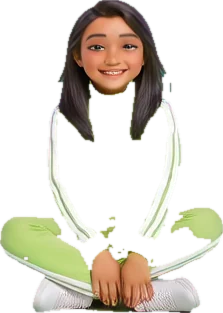
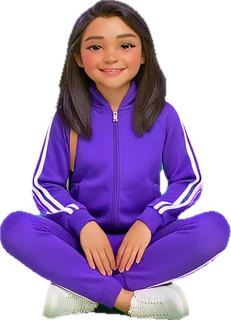
Ma Houma : gestes réalistes des 4 nouvelles tenues, tenue de sport d'Imen refaite ; Jasmin 3 : tapis volant réaliste ; docs
Claude-Session: https://claude.ai/code/session_01Lr4SkBJnq1yRYGqqaX6PKr

diff --git a/jeux/houma/corps.js b/jeux/houma/corps.js
@@ -1,2 +1,2 @@
 /* Fabriqué par docs/houma/build.py : [largeur, hauteur, centre de la tête x, haut de la tête y, largeur de la tête, cou y, main x, main y] */
-window.HOUMA_CORPS = {"anis":{"ville":[138,274,0.494,0.007,0.297,0.182,0.812,0.42],"jebba":[138,278,0.502,0.007,0.297,0.194,0.848,0.547],"foot":[137,274,0.497,0.007,0.292,0.179,0.818,0.423],"astro":[137,276,0.504,0.011,0.445,0.181,0.854,0.417],"super":[137,274,0.513,0.007,0.299,0.182,0.839,0.434],"or":[138,276,0.489,0.007,0.297,0.185,0.804,0.417],"fete":[107,320,0.491,0.003,0.458,0.197,0.991,0.472],"plage":[103,320,0.491,0.003,0.466,0.184,0.99,0.419],"pyjama":[107,320,0.488,0.003,0.439,0.181,0.981,0.416],"tablier":[103,320,0.49,0.003,0.466,0.181,0.99,0.431],"chic":[100,320,0.493,0.0,0.39,0.159,0.99,0.416],"hiver":[105,320,0.508,0.0,0.419,0.181,0.99,0.556],"sortie":[108,320,0.489,0.0,0.407,0.159,0.991,0.431],"sport":[116,320,0.489,0.0,0.397,0.159,0.991,0.478]},"imen":{"ville":[125,262,0.502,0.008,0.376,0.156,0.776,0.42],"jebba":[123,273,0.484,0.007,0.35,0.158,0.862,0.527],"foot":[124,263,0.491,0.008,0.371,0.16,0.766,0.513],"astro":[124,265,0.494,0.008,0.444,0.166,0.806,0.46],"super":[124,261,0.492,0.008,0.371,0.157,0.766,0.418],"or":[127,263,0.495,0.008,0.386,0.16,0.772,0.475],"fete":[94,320,0.514,0.006,0.617,0.203,0.979,0.484],"plage":[88,320,0.503,0.003,0.648,0.159,0.989,0.525],"pyjama":[89,320,0.505,0.003,0.629,0.159,0.989,0.475],"tablier":[89,320,0.507,0.003,0.652,0.203,0.989,0.469],"chic":[104,320,0.493,0.0,0.558,0.159,0.894,0.478],"hiver":[105,320,0.508,0.0,0.4,0.159,0.99,0.528],"sortie":[102,320,0.5,0.0,0.559,0.166,0.961,0.475],"sport":[98,320,0.498,0.0,0.633,0.172,0.99,0.425]},"essil":{"ville":[117,268,0.489,0.011,0.41,0.157,0.838,0.418],"jebba":[117,273,0.495,0.007,0.393,0.172,0.906,0.505],"foot":[117,268,0.489,0.007,0.376,0.157,0.821,0.545],"astro":[117,268,0.493,0.007,0.402,0.157,0.855,0.474],"super":[119,266,0.505,0.008,0.378,0.158,0.84,0.421],"or":[117,268,0.497,0.007,0.41,0.157,0.855,0.437],"fete":[97,320,0.486,0.003,0.536,0.159,0.99,0.512],"plage":[88,320,0.471,0.003,0.591,0.159,0.989,0.553],"pyjama":[93,320,0.475,0.003,0.559,0.159,0.989,0.509],"tablier":[94,320,0.472,0.003,0.553,0.159,0.989,0.475],"chic":[103,320,0.504,0.0,0.524,0.166,0.922,0.472],"hiver":[108,320,0.502,0.0,0.454,0.178,0.991,0.5],"sortie":[99,320,0.5,0.0,0.535,0.163,0.99,0.438],"sport":[99,320,0.478,0.0,0.525,0.159,0.99,0.447]},"salma":{"ville":[115,253,0.497,0.008,0.557,0.245,0.835,0.439],"jebba":[115,258,0.498,0.008,0.539,0.26,0.922,0.516],"foot":[114,253,0.493,0.008,0.544,0.245,0.807,0.435],"astro":[116,258,0.492,0.008,0.621,0.233,0.845,0.484],"super":[115,254,0.498,0.008,0.539,0.244,0.957,0.496],"or":[117,254,0.498,0.008,0.547,0.244,0.838,0.476],"fete":[105,320,0.5,0.003,0.781,0.241,0.99,0.522],"plage":[94,320,0.499,0.003,0.84,0.241,0.989,0.569],"pyjama":[99,320,0.502,0.003,0.788,0.247,0.99,0.525],"tablier":[101,320,0.497,0.003,0.792,0.244,0.99,0.487],"chic":[84,320,0.486,0.0,0.679,0.184,0.964,0.481],"hiver":[104,320,0.503,0.0,0.433,0.181,0.99,0.55],"sortie":[96,320,0.501,0.0,0.625,0.184,0.99,0.422],"sport":[101,320,0.496,0.0,0.752,0.222,0.99,0.472]},"amine":{"ville":[130,266,0.477,0.008,0.546,0.282,0.8,0.586],"jebba":[130,271,0.487,0.007,0.515,0.292,0.877,0.417],"foot":[130,267,0.477,0.007,0.538,0.281,0.808,0.614],"astro":[130,268,0.489,0.007,0.623,0.28,0.854,0.515],"super":[130,265,0.477,0.008,0.531,0.287,0.8,0.494],"or":[130,266,0.474,0.008,0.531,0.282,0.808,0.613],"fete":[108,320,0.469,0.003,0.759,0.259,0.991,0.519],"plage":[97,320,0.46,0.003,0.856,0.275,0.99,0.619],"pyjama":[103,320,0.464,0.003,0.816,0.269,0.99,0.569],"tablier":[96,320,0.462,0.003,0.865,0.269,0.99,0.609],"chic":[94,320,0.483,0.0,0.596,0.181,0.989,0.431],"hiver":[107,320,0.507,0.0,0.477,0.203,0.991,0.553],"sortie":[107,320,0.467,0.0,0.645,0.206,0.991,0.475],"sport":[108,320,0.462,0.0,0.787,0.259,0.991,0.509]},"nour":{"ville":[123,254,0.487,0.012,0.48,0.252,0.837,0.469],"jebba":[123,253,0.486,0.012,0.472,0.245,0.837,0.47],"foot":[123,253,0.487,0.008,0.472,0.245,0.829,0.585],"astro":[123,251,0.496,0.008,0.496,0.227,0.846,0.466],"super":[122,247,0.495,0.008,0.475,0.231,0.951,0.567],"or":[124,254,0.492,0.008,0.484,0.252,0.847,0.48],"fete":[106,320,0.48,0.003,0.689,0.244,0.991,0.472],"plage":[104,320,0.478,0.003,0.731,0.228,0.99,0.572],"pyjama":[106,320,0.474,0.003,0.698,0.244,0.991,0.478],"tablier":[106,320,0.474,0.003,0.689,0.241,0.991,0.478],"chic":[94,320,0.487,0.0,0.638,0.181,0.989,0.428],"hiver":[105,320,0.499,0.0,0.467,0.203,0.99,0.553],"sortie":[107,320,0.491,0.0,0.523,0.166,0.991,0.45],"sport":[103,320,0.494,0.0,0.641,0.197,0.99,0.516]},"yasmine":{"ville":[124,264,0.5,0.008,0.452,0.261,0.823,0.451],"jebba":[123,264,0.514,0.008,0.447,0.246,0.878,0.458],"foot":[124,255,0.5,0.008,0.444,0.212,0.798,0.424],"astro":[124,262,0.511,0.008,0.508,0.206,0.847,0.45],"super":[123,263,0.538,0.008,0.447,0.247,0.854,0.452],"or":[123,263,0.505,0.008,0.455,0.255,0.837,0.46],"fete":[103,320,0.512,0.003,0.65,0.25,0.981,0.475],"plage":[97,320,0.516,0.003,0.722,0.219,0.99,0.556],"pyjama":[99,320,0.508,0.003,0.667,0.237,0.98,0.456],"tablier":[101,320,0.507,0.003,0.653,0.237,0.99,0.475],"chic":[91,320,0.492,0.0,0.505,0.159,0.945,0.528],"hiver":[108,320,0.507,0.0,0.491,0.203,0.991,0.544],"sortie":[95,320,0.52,0.0,0.547,0.175,0.989,0.45],"sport":[101,320,0.497,0.0,0.545,0.188,0.99,0.484]},"fares":{"ville":[131,270,0.486,0.007,0.374,0.207,0.847,0.448],"jebba":[131,270,0.486,0.007,0.359,0.204,0.847,0.47],"foot":[131,270,0.492,0.007,0.359,0.207,0.832,0.578],"astro":[131,270,0.506,0.011,0.466,0.163,0.87,0.474],"super":[144,266,0.527,0.008,0.306,0.195,0.833,0.451],"or":[131,270,0.485,0.007,0.374,0.204,0.847,0.448],"fete":[107,320,0.481,0.003,0.467,0.194,0.991,0.453],"plage":[102,320,0.479,0.003,0.48,0.188,0.99,0.566],"pyjama":[106,320,0.476,0.003,0.519,0.197,0.991,0.472],"tablier":[106,320,0.474,0.003,0.528,0.194,0.991,0.475],"chic":[96,320,0.488,0.0,0.5,0.159,0.99,0.428],"hiver":[112,320,0.495,0.0,0.393,0.184,0.991,0.516],"sortie":[100,320,0.487,0.0,0.49,0.166,0.99,0.453],"sport":[111,320,0.482,0.0,0.532,0.191,0.991,0.463]}};
+window.HOUMA_CORPS = {"anis":{"ville":[138,274,0.494,0.007,0.297,0.182,0.812,0.42],"jebba":[138,278,0.502,0.007,0.297,0.194,0.848,0.547],"foot":[137,274,0.497,0.007,0.292,0.179,0.818,0.423],"astro":[137,276,0.504,0.011,0.445,0.181,0.854,0.417],"super":[137,274,0.513,0.007,0.299,0.182,0.839,0.434],"or":[138,276,0.489,0.007,0.297,0.185,0.804,0.417],"fete":[107,320,0.491,0.003,0.458,0.197,0.991,0.472],"plage":[103,320,0.491,0.003,0.466,0.184,0.99,0.419],"pyjama":[107,320,0.488,0.003,0.439,0.181,0.981,0.416],"tablier":[103,320,0.49,0.003,0.466,0.181,0.99,0.431],"chic":[100,320,0.493,0.0,0.39,0.159,0.99,0.416],"hiver":[105,320,0.508,0.0,0.419,0.181,0.99,0.556],"sortie":[108,320,0.489,0.0,0.407,0.159,0.991,0.431],"sport":[116,320,0.489,0.0,0.397,0.159,0.991,0.478]},"imen":{"ville":[125,262,0.502,0.008,0.376,0.156,0.776,0.42],"jebba":[123,273,0.484,0.007,0.35,0.158,0.862,0.527],"foot":[124,263,0.491,0.008,0.371,0.16,0.766,0.513],"astro":[124,265,0.494,0.008,0.444,0.166,0.806,0.46],"super":[124,261,0.492,0.008,0.371,0.157,0.766,0.418],"or":[127,263,0.495,0.008,0.386,0.16,0.772,0.475],"fete":[94,320,0.514,0.006,0.617,0.203,0.979,0.484],"plage":[88,320,0.503,0.003,0.648,0.159,0.989,0.525],"pyjama":[89,320,0.505,0.003,0.629,0.159,0.989,0.475],"tablier":[89,320,0.507,0.003,0.652,0.203,0.989,0.469],"chic":[104,320,0.493,0.0,0.558,0.159,0.894,0.478],"hiver":[105,320,0.508,0.0,0.4,0.159,0.99,0.528],"sortie":[102,320,0.5,0.0,0.559,0.166,0.961,0.475],"sport":[101,320,0.486,0.0,0.614,0.184,0.99,0.456]},"essil":{"ville":[117,268,0.489,0.011,0.41,0.157,0.838,0.418],"jebba":[117,273,0.495,0.007,0.393,0.172,0.906,0.505],"foot":[117,268,0.489,0.007,0.376,0.157,0.821,0.545],"astro":[117,268,0.493,0.007,0.402,0.157,0.855,0.474],"super":[119,266,0.505,0.008,0.378,0.158,0.84,0.421],"or":[117,268,0.497,0.007,0.41,0.157,0.855,0.437],"fete":[97,320,0.486,0.003,0.536,0.159,0.99,0.512],"plage":[88,320,0.471,0.003,0.591,0.159,0.989,0.553],"pyjama":[93,320,0.475,0.003,0.559,0.159,0.989,0.509],"tablier":[94,320,0.472,0.003,0.553,0.159,0.989,0.475],"chic":[103,320,0.504,0.0,0.524,0.166,0.922,0.472],"hiver":[108,320,0.502,0.0,0.454,0.178,0.991,0.5],"sortie":[99,320,0.5,0.0,0.535,0.163,0.99,0.438],"sport":[99,320,0.478,0.0,0.525,0.159,0.99,0.447]},"salma":{"ville":[115,253,0.497,0.008,0.557,0.245,0.835,0.439],"jebba":[115,258,0.498,0.008,0.539,0.26,0.922,0.516],"foot":[114,253,0.493,0.008,0.544,0.245,0.807,0.435],"astro":[116,258,0.492,0.008,0.621,0.233,0.845,0.484],"super":[115,254,0.498,0.008,0.539,0.244,0.957,0.496],"or":[117,254,0.498,0.008,0.547,0.244,0.838,0.476],"fete":[105,320,0.5,0.003,0.781,0.241,0.99,0.522],"plage":[94,320,0.499,0.003,0.84,0.241,0.989,0.569],"pyjama":[99,320,0.502,0.003,0.788,0.247,0.99,0.525],"tablier":[101,320,0.497,0.003,0.792,0.244,0.99,0.487],"chic":[84,320,0.486,0.0,0.679,0.184,0.964,0.481],"hiver":[104,320,0.503,0.0,0.433,0.181,0.99,0.55],"sortie":[96,320,0.501,0.0,0.625,0.184,0.99,0.422],"sport":[101,320,0.496,0.0,0.752,0.222,0.99,0.472]},"amine":{"ville":[130,266,0.477,0.008,0.546,0.282,0.8,0.586],"jebba":[130,271,0.487,0.007,0.515,0.292,0.877,0.417],"foot":[130,267,0.477,0.007,0.538,0.281,0.808,0.614],"astro":[130,268,0.489,0.007,0.623,0.28,0.854,0.515],"super":[130,265,0.477,0.008,0.531,0.287,0.8,0.494],"or":[130,266,0.474,0.008,0.531,0.282,0.808,0.613],"fete":[108,320,0.469,0.003,0.759,0.259,0.991,0.519],"plage":[97,320,0.46,0.003,0.856,0.275,0.99,0.619],"pyjama":[103,320,0.464,0.003,0.816,0.269,0.99,0.569],"tablier":[96,320,0.462,0.003,0.865,0.269,0.99,0.609],"chic":[94,320,0.483,0.0,0.596,0.181,0.989,0.431],"hiver":[107,320,0.507,0.0,0.477,0.203,0.991,0.553],"sortie":[107,320,0.467,0.0,0.645,0.206,0.991,0.475],"sport":[108,320,0.462,0.0,0.787,0.259,0.991,0.509]},"nour":{"ville":[123,254,0.487,0.012,0.48,0.252,0.837,0.469],"jebba":[123,253,0.486,0.012,0.472,0.245,0.837,0.47],"foot":[123,253,0.487,0.008,0.472,0.245,0.829,0.585],"astro":[123,251,0.496,0.008,0.496,0.227,0.846,0.466],"super":[122,247,0.495,0.008,0.475,0.231,0.951,0.567],"or":[124,254,0.492,0.008,0.484,0.252,0.847,0.48],"fete":[106,320,0.48,0.003,0.689,0.244,0.991,0.472],"plage":[104,320,0.478,0.003,0.731,0.228,0.99,0.572],"pyjama":[106,320,0.474,0.003,0.698,0.244,0.991,0.478],"tablier":[106,320,0.474,0.003,0.689,0.241,0.991,0.478],"chic":[94,320,0.487,0.0,0.638,0.181,0.989,0.428],"hiver":[105,320,0.499,0.0,0.467,0.203,0.99,0.553],"sortie":[107,320,0.491,0.0,0.523,0.166,0.991,0.45],"sport":[103,320,0.494,0.0,0.641,0.197,0.99,0.516]},"yasmine":{"ville":[124,264,0.5,0.008,0.452,0.261,0.823,0.451],"jebba":[123,264,0.514,0.008,0.447,0.246,0.878,0.458],"foot":[124,255,0.5,0.008,0.444,0.212,0.798,0.424],"astro":[124,262,0.511,0.008,0.508,0.206,0.847,0.45],"super":[123,263,0.538,0.008,0.447,0.247,0.854,0.452],"or":[123,263,0.505,0.008,0.455,0.255,0.837,0.46],"fete":[103,320,0.512,0.003,0.65,0.25,0.981,0.475],"plage":[97,320,0.516,0.003,0.722,0.219,0.99,0.556],"pyjama":[99,320,0.508,0.003,0.667,0.237,0.98,0.456],"tablier":[101,320,0.507,0.003,0.653,0.237,0.99,0.475],"chic":[91,320,0.492,0.0,0.505,0.159,0.945,0.528],"hiver":[108,320,0.507,0.0,0.491,0.203,0.991,0.544],"sortie":[95,320,0.52,0.0,0.547,0.175,0.989,0.45],"sport":[101,320,0.497,0.0,0.545,0.188,0.99,0.484]},"fares":{"ville":[131,270,0.486,0.007,0.374,0.207,0.847,0.448],"jebba":[131,270,0.486,0.007,0.359,0.204,0.847,0.47],"foot":[131,270,0.492,0.007,0.359,0.207,0.832,0.578],"astro":[131,270,0.506,0.011,0.466,0.163,0.87,0.474],"super":[144,266,0.527,0.008,0.306,0.195,0.833,0.451],"or":[131,270,0.485,0.007,0.374,0.204,0.847,0.448],"fete":[107,320,0.481,0.003,0.467,0.194,0.991,0.453],"plage":[102,320,0.479,0.003,0.48,0.188,0.99,0.566],"pyjama":[106,320,0.476,0.003,0.519,0.197,0.991,0.472],"tablier":[106,320,0.474,0.003,0.528,0.194,0.991,0.475],"chic":[96,320,0.488,0.0,0.5,0.159,0.99,0.428],"hiver":[112,320,0.495,0.0,0.393,0.184,0.991,0.516],"sortie":[100,320,0.487,0.0,0.49,0.166,0.99,0.453],"sport":[111,320,0.482,0.0,0.532,0.191,0.991,0.463]}};

diff --git a/jeux/houma/assis.js b/jeux/houma/assis.js
@@ -1,2 +1,2 @@
 /* Fabriqué par docs/houma/build_assis.py : [largeur, hauteur, hauteur par rapport au personnage debout, tête x, tête largeur, cou y] */
-window.HOUMA_ASSIS = {"amine":{"fete":[259,412,0.736,0.48,0.56,0.345],"plage":[232,400,0.714,0.482,0.651,0.388],"pyjama":[222,414,0.739,0.484,0.667,0.362],"tablier":[208,408,0.729,0.478,0.726,0.375],"ville":[221,406,0.725,0.486,0.679,0.387],"astro":[238,413,0.738,0.492,0.735,0.409],"foot":[224,402,0.718,0.486,0.696,0.398],"jebba":[208,410,0.732,0.508,0.654,0.376],"or":[220,411,0.734,0.482,0.686,0.375],"super":[216,408,0.729,0.489,0.718,0.392],"chic":[274,443,0.791,0.508,0.445,0.284],"hiver":[273,443,0.791,0.453,0.392,0.309],"sortie":[247,356,0.636,0.442,0.466,0.312],"sport":[250,392,0.7,0.484,0.564,0.362]},"anis":{"fete":[250,346,0.618,0.489,0.348,0.309],"plage":[237,325,0.58,0.479,0.338,0.289],"pyjama":[232,334,0.596,0.488,0.358,0.278],"tablier":[221,342,0.611,0.475,0.367,0.278],"ville":[220,321,0.573,0.462,0.35,0.28],"astro":[236,335,0.598,0.511,0.504,0.275],"foot":[238,316,0.564,0.496,0.324,0.288],"jebba":[224,332,0.593,0.476,0.348,0.295],"or":[230,322,0.575,0.481,0.357,0.283],"super":[237,329,0.588,0.5,0.338,0.286],"chic":[253,354,0.632,0.494,0.3,0.209],"hiver":[255,436,0.779,0.514,0.353,0.278],"sortie":[215,360,0.643,0.497,0.358,0.222],"sport":[244,336,0.6,0.474,0.311,0.238]},"essil":{"fete":[256,360,0.643,0.435,0.348,0.2],"plage":[230,341,0.609,0.485,0.4,0.223],"pyjama":[232,351,0.627,0.455,0.409,0.219],"tablier":[199,333,0.595,0.462,0.452,0.225],"ville":[201,313,0.559,0.497,0.443,0.23],"astro":[227,327,0.584,0.496,0.427,0.223],"foot":[210,337,0.602,0.463,0.424,0.228],"jebba":[223,342,0.611,0.504,0.399,0.266],"or":[220,355,0.634,0.462,0.427,0.2],"super":[209,329,0.588,0.477,0.44,0.246],"chic":[240,395,0.705,0.497,0.338,0.2],"hiver":[179,427,0.762,0.418,0.536,0.272],"sortie":[248,441,0.787,0.549,0.387,0.2],"sport":[235,337,0.602,0.474,0.379,0.214]},"fares":{"fete":[235,338,0.604,0.487,0.383,0.325],"plage":[229,331,0.591,0.475,0.362,0.302],"pyjama":[230,331,0.591,0.513,0.426,0.311],"tablier":[226,354,0.632,0.482,0.42,0.305],"ville":[237,336,0.6,0.481,0.418,0.318],"astro":[220,360,0.643,0.507,0.568,0.225],"foot":[239,328,0.586,0.481,0.397,0.314],"jebba":[240,335,0.598,0.499,0.396,0.313],"or":[252,335,0.598,0.476,0.405,0.331],"super":[223,335,0.598,0.514,0.404,0.304],"chic":[270,404,0.721,0.514,0.344,0.243],"hiver":[253,388,0.693,0.458,0.32,0.276],"sortie":[276,372,0.664,0.515,0.359,0.296],"sport":[275,340,0.607,0.483,0.356,0.303]},"imen":{"fete":[255,329,0.588,0.466,0.349,0.198],"plage":[225,311,0.555,0.502,0.449,0.199],"pyjama":[243,318,0.568,0.496,0.391,0.198],"tablier":[216,316,0.564,0.481,0.417,0.199],"ville":[230,310,0.554,0.495,0.4,0.2],"astro":[241,329,0.588,0.499,0.494,0.277],"foot":[226,304,0.543,0.511,0.385,0.197],"jebba":[224,321,0.573,0.505,0.357,0.199],"or":[232,316,0.564,0.51,0.418,0.199],"super":[236,309,0.552,0.503,0.373,0.197],"chic":[219,368,0.657,0.52,0.461,0.231],"hiver":[237,401,0.716,0.516,0.329,0.222],"sortie":[226,348,0.621,0.47,0.407,0.198],"sport":[223,313,0.559,0.498,0.426,0.198]},"nour":{"fete":[252,360,0.643,0.478,0.532,0.375],"plage":[229,364,0.65,0.488,0.59,0.354],"pyjama":[230,358,0.639,0.514,0.557,0.374],"tablier":[203,368,0.657,0.474,0.611,0.351],"ville":[240,368,0.657,0.494,0.525,0.364],"astro":[243,361,0.645,0.495,0.556,0.371],"foot":[240,372,0.664,0.502,0.575,0.382],"jebba":[245,364,0.65,0.496,0.535,0.365],"or":[254,352,0.629,0.519,0.543,0.398],"super":[262,366,0.654,0.501,0.515,0.352],"chic":[316,424,0.757,0.49,0.411,0.297],"hiver":[232,455,0.812,0.485,0.444,0.308],"sortie":[283,357,0.637,0.493,0.36,0.266],"sport":[286,411,0.734,0.522,0.483,0.307]},"salma":{"fete":[226,377,0.673,0.518,0.659,0.337],"plage":[202,330,0.589,0.477,0.673,0.376],"pyjama":[218,357,0.637,0.5,0.665,0.364],"tablier":[207,345,0.616,0.453,0.667,0.357],"ville":[190,342,0.611,0.456,0.689,0.357],"astro":[215,358,0.639,0.491,0.73,0.349],"foot":[190,327,0.584,0.522,0.726,0.388],"jebba":[221,359,0.641,0.495,0.575,0.362],"or":[227,345,0.616,0.48,0.674,0.394],"super":[230,360,0.643,0.528,0.635,0.372],"chic":[204,549,0.98,0.512,0.711,0.23],"hiver":[266,398,0.711,0.479,0.335,0.271],"sortie":[248,459,0.82,0.53,0.617,0.255],"sport":[247,371,0.662,0.499,0.607,0.356]},"yasmine":{"fete":[233,362,0.646,0.481,0.502,0.343],"plage":[230,332,0.593,0.5,0.526,0.322],"pyjama":[228,341,0.609,0.513,0.513,0.408],"tablier":[207,370,0.661,0.493,0.546,0.362],"ville":[239,351,0.627,0.511,0.494,0.373],"astro":[230,366,0.654,0.542,0.591,0.276],"foot":[229,349,0.623,0.525,0.52,0.355],"jebba":[226,356,0.636,0.521,0.504,0.365],"or":[223,363,0.648,0.505,0.534,0.383],"super":[247,349,0.623,0.524,0.482,0.384],"chic":[189,501,0.895,0.524,0.534,0.21],"hiver":[224,472,0.843,0.466,0.478,0.297],"sortie":[236,499,0.891,0.555,0.487,0.251],"sport":[302,432,0.771,0.489,0.391,0.278]}};
+window.HOUMA_ASSIS = {"amine":{"fete":[259,412,0.736,0.48,0.56,0.345],"plage":[232,400,0.714,0.482,0.651,0.388],"pyjama":[222,414,0.739,0.484,0.667,0.362],"tablier":[208,408,0.729,0.478,0.726,0.375],"ville":[221,406,0.725,0.486,0.679,0.387],"astro":[238,413,0.738,0.492,0.735,0.409],"foot":[224,402,0.718,0.486,0.696,0.398],"jebba":[208,410,0.732,0.508,0.654,0.376],"or":[220,411,0.734,0.482,0.686,0.375],"super":[216,408,0.729,0.489,0.718,0.392],"chic":[274,443,0.791,0.508,0.445,0.284],"hiver":[273,443,0.791,0.453,0.392,0.309],"sortie":[247,356,0.636,0.442,0.466,0.312],"sport":[250,392,0.7,0.484,0.564,0.362]},"anis":{"fete":[250,346,0.618,0.489,0.348,0.309],"plage":[237,325,0.58,0.479,0.338,0.289],"pyjama":[232,334,0.596,0.488,0.358,0.278],"tablier":[221,342,0.611,0.475,0.367,0.278],"ville":[220,321,0.573,0.462,0.35,0.28],"astro":[236,335,0.598,0.511,0.504,0.275],"foot":[238,316,0.564,0.496,0.324,0.288],"jebba":[224,332,0.593,0.476,0.348,0.295],"or":[230,322,0.575,0.481,0.357,0.283],"super":[237,329,0.588,0.5,0.338,0.286],"chic":[253,354,0.632,0.494,0.3,0.209],"hiver":[255,436,0.779,0.514,0.353,0.278],"sortie":[215,360,0.643,0.497,0.358,0.222],"sport":[244,336,0.6,0.474,0.311,0.238]},"essil":{"fete":[256,360,0.643,0.435,0.348,0.2],"plage":[230,341,0.609,0.485,0.4,0.223],"pyjama":[232,351,0.627,0.455,0.409,0.219],"tablier":[199,333,0.595,0.462,0.452,0.225],"ville":[201,313,0.559,0.497,0.443,0.23],"astro":[227,327,0.584,0.496,0.427,0.223],"foot":[210,337,0.602,0.463,0.424,0.228],"jebba":[223,342,0.611,0.504,0.399,0.266],"or":[220,355,0.634,0.462,0.427,0.2],"super":[209,329,0.588,0.477,0.44,0.246],"chic":[240,395,0.705,0.497,0.338,0.2],"hiver":[179,427,0.762,0.418,0.536,0.272],"sortie":[248,441,0.787,0.549,0.387,0.2],"sport":[235,337,0.602,0.474,0.379,0.214]},"fares":{"fete":[235,338,0.604,0.487,0.383,0.325],"plage":[229,331,0.591,0.475,0.362,0.302],"pyjama":[230,331,0.591,0.513,0.426,0.311],"tablier":[226,354,0.632,0.482,0.42,0.305],"ville":[237,336,0.6,0.481,0.418,0.318],"astro":[220,360,0.643,0.507,0.568,0.225],"foot":[239,328,0.586,0.481,0.397,0.314],"jebba":[240,335,0.598,0.499,0.396,0.313],"or":[252,335,0.598,0.476,0.405,0.331],"super":[223,335,0.598,0.514,0.404,0.304],"chic":[270,404,0.721,0.514,0.344,0.243],"hiver":[253,388,0.693,0.458,0.32,0.276],"sortie":[276,372,0.664,0.515,0.359,0.296],"sport":[275,340,0.607,0.483,0.356,0.303]},"imen":{"fete":[255,329,0.588,0.466,0.349,0.198],"plage":[225,311,0.555,0.502,0.449,0.199],"pyjama":[243,318,0.568,0.496,0.391,0.198],"tablier":[216,316,0.564,0.481,0.417,0.199],"ville":[230,310,0.554,0.495,0.4,0.2],"astro":[241,329,0.588,0.499,0.494,0.277],"foot":[226,304,0.543,0.511,0.385,0.197],"jebba":[224,321,0.573,0.505,0.357,0.199],"or":[232,316,0.564,0.51,0.418,0.199],"super":[236,309,0.552,0.503,0.373,0.197],"chic":[219,368,0.657,0.52,0.461,0.231],"hiver":[237,401,0.716,0.516,0.329,0.222],"sortie":[226,348,0.621,0.47,0.407,0.198],"sport":[231,320,0.571,0.478,0.407,0.2]},"nour":{"fete":[252,360,0.643,0.478,0.532,0.375],"plage":[229,364,0.65,0.488,0.59,0.354],"pyjama":[230,358,0.639,0.514,0.557,0.374],"tablier":[203,368,0.657,0.474,0.611,0.351],"ville":[240,368,0.657,0.494,0.525,0.364],"astro":[243,361,0.645,0.495,0.556,0.371],"foot":[240,372,0.664,0.502,0.575,0.382],"jebba":[245,364,0.65,0.496,0.535,0.365],"or":[254,352,0.629,0.519,0.543,0.398],"super":[262,366,0.654,0.501,0.515,0.352],"chic":[316,424,0.757,0.49,0.411,0.297],"hiver":[232,455,0.812,0.485,0.444,0.308],"sortie":[283,357,0.637,0.493,0.36,0.266],"sport":[286,411,0.734,0.522,0.483,0.307]},"salma":{"fete":[226,377,0.673,0.518,0.659,0.337],"plage":[202,330,0.589,0.477,0.673,0.376],"pyjama":[218,357,0.637,0.5,0.665,0.364],"tablier":[207,345,0.616,0.453,0.667,0.357],"ville":[190,342,0.611,0.456,0.689,0.357],"astro":[215,358,0.639,0.491,0.73,0.349],"foot":[190,327,0.584,0.522,0.726,0.388],"jebba":[221,359,0.641,0.495,0.575,0.362],"or":[227,345,0.616,0.48,0.674,0.394],"super":[230,360,0.643,0.528,0.635,0.372],"chic":[204,549,0.98,0.512,0.711,0.23],"hiver":[266,398,0.711,0.479,0.335,0.271],"sortie":[248,459,0.82,0.53,0.617,0.255],"sport":[247,371,0.662,0.499,0.607,0.356]},"yasmine":{"fete":[233,362,0.646,0.481,0.502,0.343],"plage":[230,332,0.593,0.5,0.526,0.322],"pyjama":[228,341,0.609,0.513,0.513,0.408],"tablier":[207,370,0.661,0.493,0.546,0.362],"ville":[239,351,0.627,0.511,0.494,0.373],"astro":[230,366,0.654,0.542,0.591,0.276],"foot":[229,349,0.623,0.525,0.52,0.355],"jebba":[226,356,0.636,0.521,0.504,0.365],"or":[223,363,0.648,0.505,0.534,0.383],"super":[247,349,0.623,0.524,0.482,0.384],"chic":[189,501,0.895,0.524,0.534,0.21],"hiver":[224,472,0.843,0.466,0.478,0.297],"sortie":[236,499,0.891,0.555,0.487,0.251],"sport":[302,432,0.771,0.489,0.391,0.278]}};

diff --git a/jeux/houma/gestes.js b/jeux/houma/gestes.js
@@ -1,2 +1,2 @@
 // fabriqué par docs/houma/build_gestes.py
-window.HOUMA_GESTES = {"amine":{"ville":[210,330,0.484,1.125,0.995],"jebba":[198,330,0.482,1.186,0.985],"pyjama":[201,330,0.487,1.095,0.989],"astro":[203,330,0.488,1.172,0.997],"fete":[212,330,0.495,1.047,0.993],"foot":[194,330,0.473,1.202,0.968],"or":[198,330,0.483,1.205,0.971],"plage":[210,330,0.495,1.06,0.99],"super":[199,330,0.482,1.172,0.983],"tablier":[207,330,0.49,1.077,0.988]},"anis":{"ville":[188,330,0.479,1.206,0.981],"jebba":[196,330,0.472,1.198,0.985],"pyjama":[186,330,0.474,1.194,0.986],"astro":[190,330,0.478,1.206,0.982],"fete":[184,330,0.459,1.156,0.986],"foot":[189,330,0.478,1.216,0.977],"or":[191,330,0.48,1.204,0.982],"plage":[180,330,0.455,1.187,0.99],"super":[190,330,0.52,1.218,0.976],"tablier":[184,330,0.454,1.185,0.987]},"essil":{"ville":[186,330,0.496,1.207,0.98],"jebba":[183,330,0.46,1.208,0.979],"pyjama":[166,330,0.506,1.189,0.985],"astro":[190,330,0.494,1.2,0.984],"fete":[171,330,0.475,1.208,0.983],"foot":[161,330,0.512,1.215,0.981],"or":[189,330,0.493,1.208,0.982],"plage":[161,330,0.507,1.206,0.982],"super":[186,330,0.539,1.214,0.977],"tablier":[183,330,0.468,1.182,0.986]},"fares":{"ville":[195,330,0.485,1.194,0.987],"jebba":[190,330,0.467,1.19,0.987],"pyjama":[183,330,0.458,1.184,0.986],"astro":[190,330,0.484,1.21,0.976],"fete":[189,330,0.46,1.174,0.991],"foot":[178,330,0.468,1.208,0.977],"or":[195,330,0.495,1.201,0.983],"plage":[177,330,0.461,1.185,0.989],"super":[188,330,0.535,1.211,0.977],"tablier":[190,330,0.456,1.179,0.989]},"imen":{"ville":[172,330,0.516,1.215,0.983],"jebba":[184,330,0.461,1.204,0.985],"pyjama":[172,330,0.504,1.206,0.981],"astro":[188,330,0.488,1.203,0.985],"fete":[170,330,0.478,1.211,0.981],"foot":[172,330,0.52,1.226,0.976],"or":[171,330,0.513,1.223,0.98],"plage":[164,330,0.483,1.217,0.978],"super":[173,330,0.515,1.219,0.977],"tablier":[175,330,0.461,1.203,0.986]},"nour":{"ville":[195,330,0.469,1.183,0.991],"jebba":[188,330,0.464,1.198,0.984],"pyjama":[201,330,0.478,1.154,0.988],"astro":[191,330,0.465,1.199,0.98],"fete":[203,330,0.49,1.09,0.987],"foot":[184,330,0.471,1.199,0.973],"or":[199,330,0.487,1.207,0.976],"plage":[204,330,0.476,1.125,0.987],"super":[189,330,0.465,1.198,0.984],"tablier":[205,330,0.481,1.086,0.99]},"salma":{"ville":[189,330,0.482,1.219,0.965],"jebba":[192,330,0.463,1.191,0.995],"pyjama":[189,330,0.456,1.167,0.993],"astro":[193,330,0.47,1.207,0.973],"fete":[197,330,0.469,1.173,0.987],"foot":[183,330,0.464,1.199,0.981],"or":[197,330,0.482,1.208,0.974],"plage":[196,330,0.461,1.157,0.974],"super":[188,330,0.471,1.22,0.963],"tablier":[200,330,0.458,1.147,0.993]},"yasmine":{"ville":[187,330,0.453,1.188,0.987],"jebba":[191,330,0.47,1.196,0.987],"pyjama":[195,330,0.463,1.154,0.989],"astro":[194,330,0.471,1.194,0.984],"fete":[197,330,0.479,1.146,0.984],"foot":[178,330,0.46,1.205,0.98],"or":[198,330,0.475,1.199,0.985],"plage":[185,330,0.498,1.182,0.989],"super":[186,330,0.488,1.2,0.983],"tablier":[196,330,0.475,1.123,0.985]}};
+window.HOUMA_GESTES = {"amine":{"ville":[210,330,0.484,1.125,0.995],"jebba":[198,330,0.482,1.186,0.985],"pyjama":[201,330,0.487,1.095,0.989],"astro":[203,330,0.488,1.172,0.997],"fete":[212,330,0.495,1.047,0.993],"foot":[194,330,0.473,1.202,0.968],"or":[198,330,0.483,1.205,0.971],"plage":[210,330,0.495,1.06,0.99],"super":[199,330,0.482,1.172,0.983],"tablier":[207,330,0.49,1.077,0.988],"chic":[179,330,0.476,1.002,0.999],"hiver":[176,330,0.489,1.001,0.998],"sortie":[189,330,0.489,1.112,0.999],"sport":[195,330,0.48,1.11,0.999]},"anis":{"ville":[188,330,0.479,1.206,0.981],"jebba":[196,330,0.472,1.198,0.985],"pyjama":[186,330,0.474,1.194,0.986],"astro":[190,330,0.478,1.206,0.982],"fete":[184,330,0.459,1.156,0.986],"foot":[189,330,0.478,1.216,0.977],"or":[191,330,0.48,1.204,0.982],"plage":[180,330,0.455,1.187,0.99],"super":[190,330,0.52,1.218,0.976],"tablier":[184,330,0.454,1.185,0.987],"chic":[176,330,0.472,1.164,0.965],"hiver":[176,330,0.473,1.089,0.962],"sortie":[179,330,0.473,1.172,0.961],"sport":[151,330,0.465,1.062,0.942]},"essil":{"ville":[186,330,0.496,1.207,0.98],"jebba":[183,330,0.46,1.208,0.979],"pyjama":[166,330,0.506,1.189,0.985],"astro":[190,330,0.494,1.2,0.984],"fete":[171,330,0.475,1.208,0.983],"foot":[161,330,0.512,1.215,0.981],"or":[189,330,0.493,1.208,0.982],"plage":[161,330,0.507,1.206,0.982],"super":[186,330,0.539,1.214,0.977],"tablier":[183,330,0.468,1.182,0.986],"chic":[179,330,0.48,1.15,0.983],"hiver":[184,330,0.494,1.098,0.97],"sortie":[167,330,0.475,1.082,0.997],"sport":[178,330,0.485,1.212,0.948]},"fares":{"ville":[195,330,0.485,1.194,0.987],"jebba":[190,330,0.467,1.19,0.987],"pyjama":[183,330,0.458,1.184,0.986],"astro":[190,330,0.484,1.21,0.976],"fete":[189,330,0.46,1.174,0.991],"foot":[178,330,0.468,1.208,0.977],"or":[195,330,0.495,1.201,0.983],"plage":[177,330,0.461,1.185,0.989],"super":[188,330,0.535,1.211,0.977],"tablier":[190,330,0.456,1.179,0.989],"chic":[179,330,0.48,1.103,0.988],"hiver":[191,330,0.49,1.092,0.999],"sortie":[180,330,0.477,1.054,0.996],"sport":[192,330,0.487,1.132,0.997]},"imen":{"ville":[172,330,0.516,1.215,0.983],"jebba":[184,330,0.461,1.204,0.985],"pyjama":[172,330,0.504,1.206,0.981],"astro":[188,330,0.488,1.203,0.985],"fete":[170,330,0.478,1.211,0.981],"foot":[172,330,0.52,1.226,0.976],"or":[171,330,0.513,1.223,0.98],"plage":[164,330,0.483,1.217,0.978],"super":[173,330,0.515,1.219,0.977],"tablier":[175,330,0.461,1.203,0.986],"chic":[176,330,0.464,1.182,0.966],"hiver":[189,330,0.483,1.068,0.996],"sortie":[176,330,0.474,1.186,0.955],"sport":[178,330,0.479,1.205,0.956]},"nour":{"ville":[195,330,0.469,1.183,0.991],"jebba":[188,330,0.464,1.198,0.984],"pyjama":[201,330,0.478,1.154,0.988],"astro":[191,330,0.465,1.199,0.98],"fete":[203,330,0.49,1.09,0.987],"foot":[184,330,0.471,1.199,0.973],"or":[199,330,0.487,1.207,0.976],"plage":[204,330,0.476,1.125,0.987],"super":[189,330,0.465,1.198,0.984],"tablier":[205,330,0.481,1.086,0.99],"chic":[173,330,0.466,1.018,1.0],"hiver":[180,330,0.487,1.006,0.998],"sortie":[179,330,0.481,1.118,0.997],"sport":[173,330,0.47,1.028,1.0]},"salma":{"ville":[189,330,0.482,1.219,0.965],"jebba":[192,330,0.463,1.191,0.995],"pyjama":[189,330,0.456,1.167,0.993],"astro":[193,330,0.47,1.207,0.973],"fete":[197,330,0.469,1.173,0.987],"foot":[183,330,0.464,1.199,0.981],"or":[197,330,0.482,1.208,0.974],"plage":[196,330,0.461,1.157,0.974],"super":[188,330,0.471,1.22,0.963],"tablier":[200,330,0.458,1.147,0.993],"chic":[167,330,0.483,1.025,0.999],"hiver":[178,330,0.488,1.054,0.978],"sortie":[170,330,0.479,1.038,0.998],"sport":[190,330,0.477,1.06,0.998]},"yasmine":{"ville":[187,330,0.453,1.188,0.987],"jebba":[191,330,0.47,1.196,0.987],"pyjama":[195,330,0.463,1.154,0.989],"astro":[194,330,0.471,1.194,0.984],"fete":[197,330,0.479,1.146,0.984],"foot":[178,330,0.46,1.205,0.98],"or":[198,330,0.475,1.199,0.985],"plage":[185,330,0.498,1.182,0.989],"super":[186,330,0.488,1.2,0.983],"tablier":[196,330,0.475,1.123,0.985],"chic":[167,330,0.474,1.088,0.998],"hiver":[186,330,0.476,1.01,0.995],"sortie":[170,330,0.477,1.043,0.998],"sport":[177,330,0.461,1.028,0.996]}};

diff --git a/docs/jeux-3d.md b/docs/jeux-3d.md
@@ -245,7 +245,7 @@ D'après le cahier des charges du papa (`grande section\clone subway\`, course i
 - Données : `S.deco[uid] = { t, p, x, y, k (taille), r (angle), f (retourné), z (devant/derrière), on (posé sur), s (allumé) }`, `S.mur[pièce] = { m, s }`, `S.mi[pièce]` (premiers meubles posés : `ROOM0`). 160 objets au plus.
 - Chaque objet posé devient un **FIXED fabriqué à la volée** (`decoDef`) : places assises (`seats`), lits (`bed`), bains (`bath`), dessus où poser (`surf`), lumière (`glow`) viennent de `MB` (fractions de l'image). Tout le reste du moteur marche donc tel quel : s'asseoir sur le canapé, se coucher, poser un objet du quartier sur la table.
 - **Gestes au doigt** : glisser = déplacer (ce qui est posé dessus et les personnages assis suivent) ; toucher = action (lampe, télé, radio, piano, eau, fusée qui décolle, trampoline, toboggan, balançoire, cheval à bascule, animaux…) + barre d'outils (➖ ➕ ↺ ↻ ⇋ ⧉ ⬆ ⬇ 🗑) ; **double toucher** = retourner ; **pincer** = agrandir/réduire ; **tourner à deux doigts** = pivoter (aimanté droit sous 6°) ; un petit objet lâché sur une table se pose dessus (`supportAt`).
-- **Gestes des personnages** : toucher un personnage ouvre une bulle 👋 💃 🦘 👏 😴 😘 (+ 🎩 pour enlever un accessoire). Images réalistes `jeux/houma/g-<id>[-<tenue>].webp` pour les 8 personnages × 10 tenues (5 cases : salut, danse A, danse B, saut, bravo ; danse = alternance A/B), repères `jeux/houma/gestes.js` ; dodo et bisou gardent l'image habituelle avec une petite animation.
+- **Gestes des personnages** : toucher un personnage ouvre une bulle 👋 💃 🦘 👏 😴 😘 (+ 🎩 pour enlever un accessoire). Images réalistes `jeux/houma/g-<id>[-<tenue>].webp` pour les 8 personnages × 14 tenues (5 cases : salut, danse A, danse B, saut, bravo ; danse = alternance A/B), repères `jeux/houma/gestes.js` ; dodo et bisou gardent l'image habituelle avec une petite animation.
 - 17 découvertes de plus (`DISC`, et `HDISC` dans Progression) : meubler, 20 objets, peintre, pincer, retourner, poser sur une table, déménager, télé, musique, fusée, trampoline, toboggan, balançoire, chien, cuisine, geste, danse.
 - Images : `docs/maison/catalogue.py` (liste + prompts), `docs/maison/build.py` (détourage → `jeux/maison/<id>.webp`, textures raccordées par miroir → `jeux/maison/tex/`, `jeux/maison/catalogue.js`), `docs/houma/build_gestes.py`.
 - **13/11 (après-midi)** : 

diff --git a/docs/journal.md b/docs/journal.md
@@ -109,3 +109,4 @@ Une ligne par réalisation, la plus ancienne en premier. Ajouter une ligne à ch
 - **13/11 (matin)** : Jasmin : écran **🎚 Chaque bruitage** : chaque son (saut, chute, pièce…) se règle seul : nouveau (enregistré), ancien (le bip codé d'avant) ou rien, avec ▶ pour écouter.
 - **13/11 (midi)** : **Jasmin 3, essai** : Sidi Bou Saïd entièrement « en vrai » (fond photo, maisons, murs à la chaux et faïence, mer, coffres, dinars, lanterne, jarre…), 22 images ComfyUI ; les 23 autres mondes attendent l'avis du papa.
 - **13/11 (après-midi)** : **Jasmin 3 complet** : les 24 mondes en images réalistes ComfyUI (161 images : photo, décor du milieu, sol, dessus, plateformes, eau, pics par monde) ; tous les liens du site mènent au Jasmin 3, le Jasmin 2 reste en sauvegarde sans changement. **Ma Houma** : 4 tenues (sport, sortie, chic, hiver), garde-robe, 42 décorations, 20 arabesques et graffitis, peinture libre sur les murs.
+- **13/11 (soir)** : Ma Houma : **gestes réalistes des 4 nouvelles tenues** (32 planches, ComfyUI) et tenue de sport d'Imen refaite en violet (le fond vert l'effaçait) ; Jasmin 3 : **tapis volant** réaliste du monde 6.
